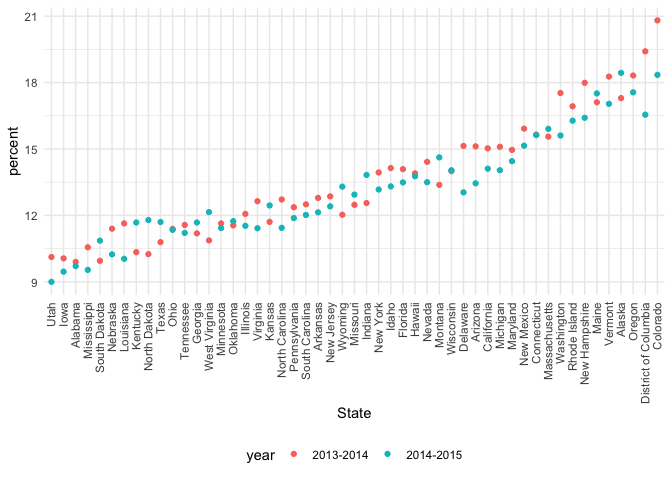
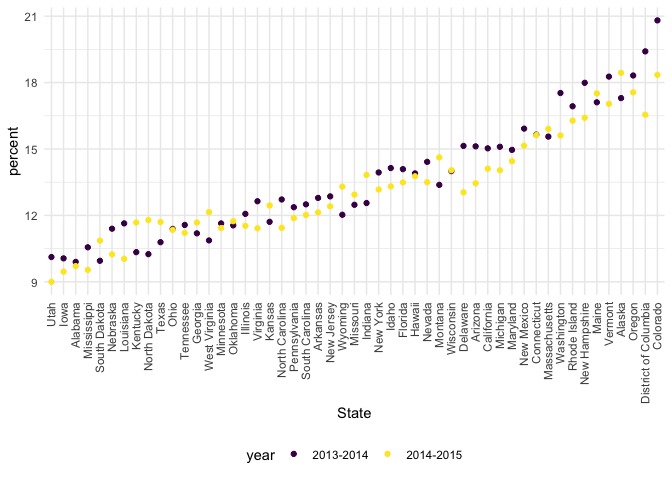
FACTOR IN GGPLOT

diff --git a/strings_and_factors.md b/strings_and_factors.md
@@ -6,6 +6,7 @@ Ruiqi Yan
 ``` r
 library(tidyverse)
 library(rvest)
+library(p8105.datasets)
 
 knitr::opts_chunk$set(
   warning = FALSE,
@@ -15,23 +16,24 @@ knitr::opts_chunk$set(
 theme_set(theme_minimal() + theme(legend.position = "bottom"))
 
 options(
-  ggplot2.continuous.colour = "turbo",
-  ggplot2.continuous.fill = "turbo"
+  ggplot2.continuous.colour = "viridis",
+  ggplot2.continuous.fill = "viridis"
 )
 
-scale_colour_discrete = scale_colour_viridis_d(option = "turbo")
-scale_fill_discrete = scale_fill_viridis_d(option = "turbo")
+scale_colour_discrete = scale_colour_viridis_d
+scale_fill_discrete = scale_fill_viridis_d
 ```
 
-## String vectors
 
-string is case-sensitive
+    ## String vectors
 
-``` r
-string_vec = c("my", "name", "is", "jeff")
+    string is case-sensitive
 
-str_detect(string_vec, "M")
-```
+
+    ```r
+    string_vec = c("my", "name", "is", "jeff")
+
+    str_detect(string_vec, "M")
 
     ## [1] FALSE FALSE FALSE FALSE
 
@@ -185,3 +187,47 @@ marj_df %>%
 ```
 
 ![](strings_and_factors_files/figure-gfm/unnamed-chunk-11-1.png)<!-- -->
+
+## Restaurant inspections
+
+``` r
+data("rest_inspec")
+```
+
+``` r
+rest_inspec <- 
+  rest_inspec %>% 
+  filter(
+    str_detect(grade, "[ABC]"),
+    !boro == "Missing"
+  ) %>% 
+  mutate(
+    boro = str_to_title(boro)
+  )
+```
+
+``` r
+rest_inspec %>% 
+  filter(str_detect(dba, "[Pp][Ii][Zz][Zz][Aa]")) %>% 
+  janitor::tabyl(boro, grade)
+```
+
+    ##           boro    A   B  C
+    ##          Bronx 1170 305 56
+    ##       Brooklyn 1948 296 61
+    ##      Manhattan 1983 420 76
+    ##         Queens 1647 259 48
+    ##  Staten Island  323 127 21
+
+``` r
+rest_inspec %>% 
+  filter(str_detect(dba, "[Pp][Ii][Zz][Zz][Aa]")) %>% 
+  mutate(
+    boro = fct_infreq(boro),
+    boro = fct_recode(boro, "This City" = "Manhattan")
+  ) %>% 
+  ggplot(aes(x = boro, fill = grade)) +
+  geom_bar()
+```
+
+![](strings_and_factors_files/figure-gfm/unnamed-chunk-15-1.png)<!-- -->
